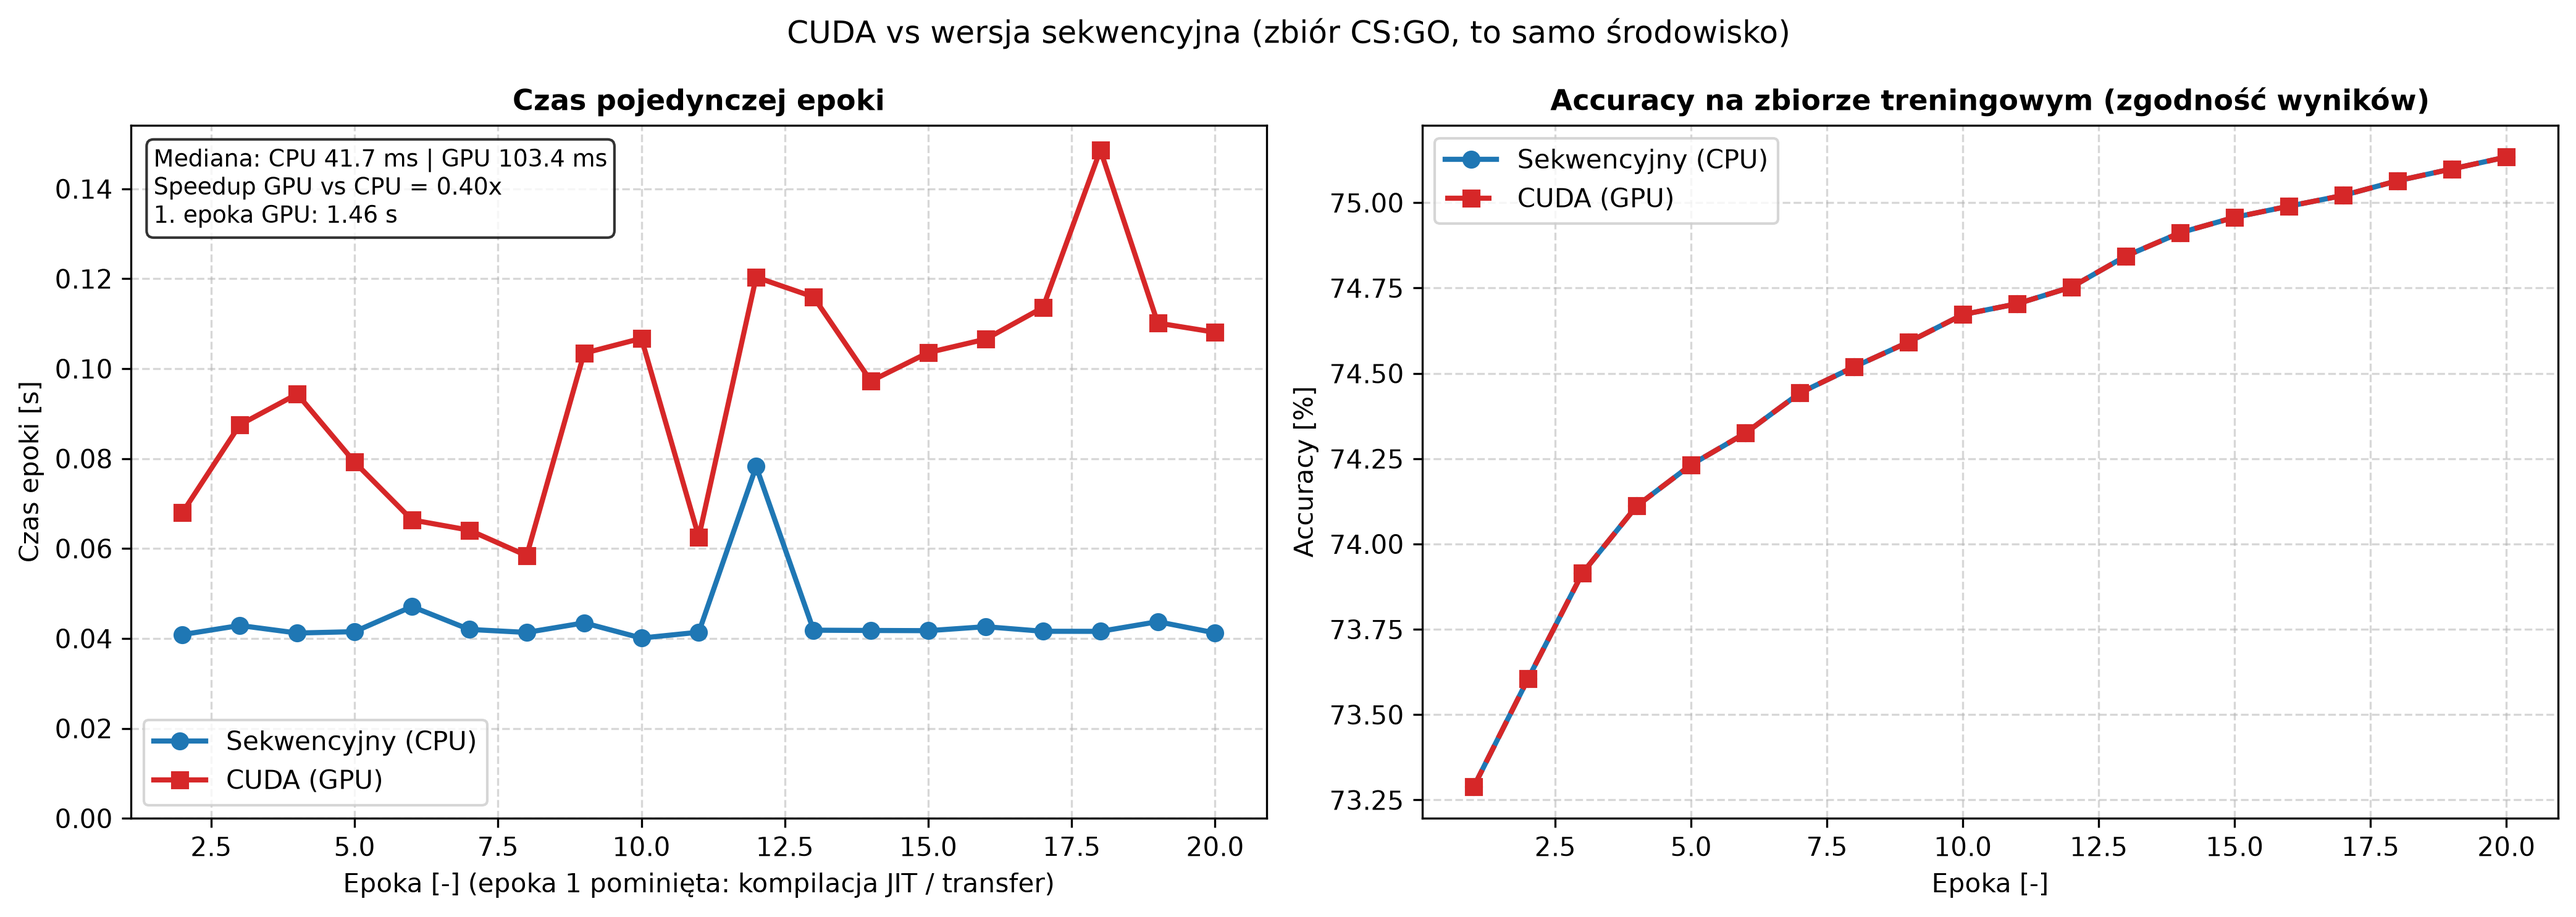
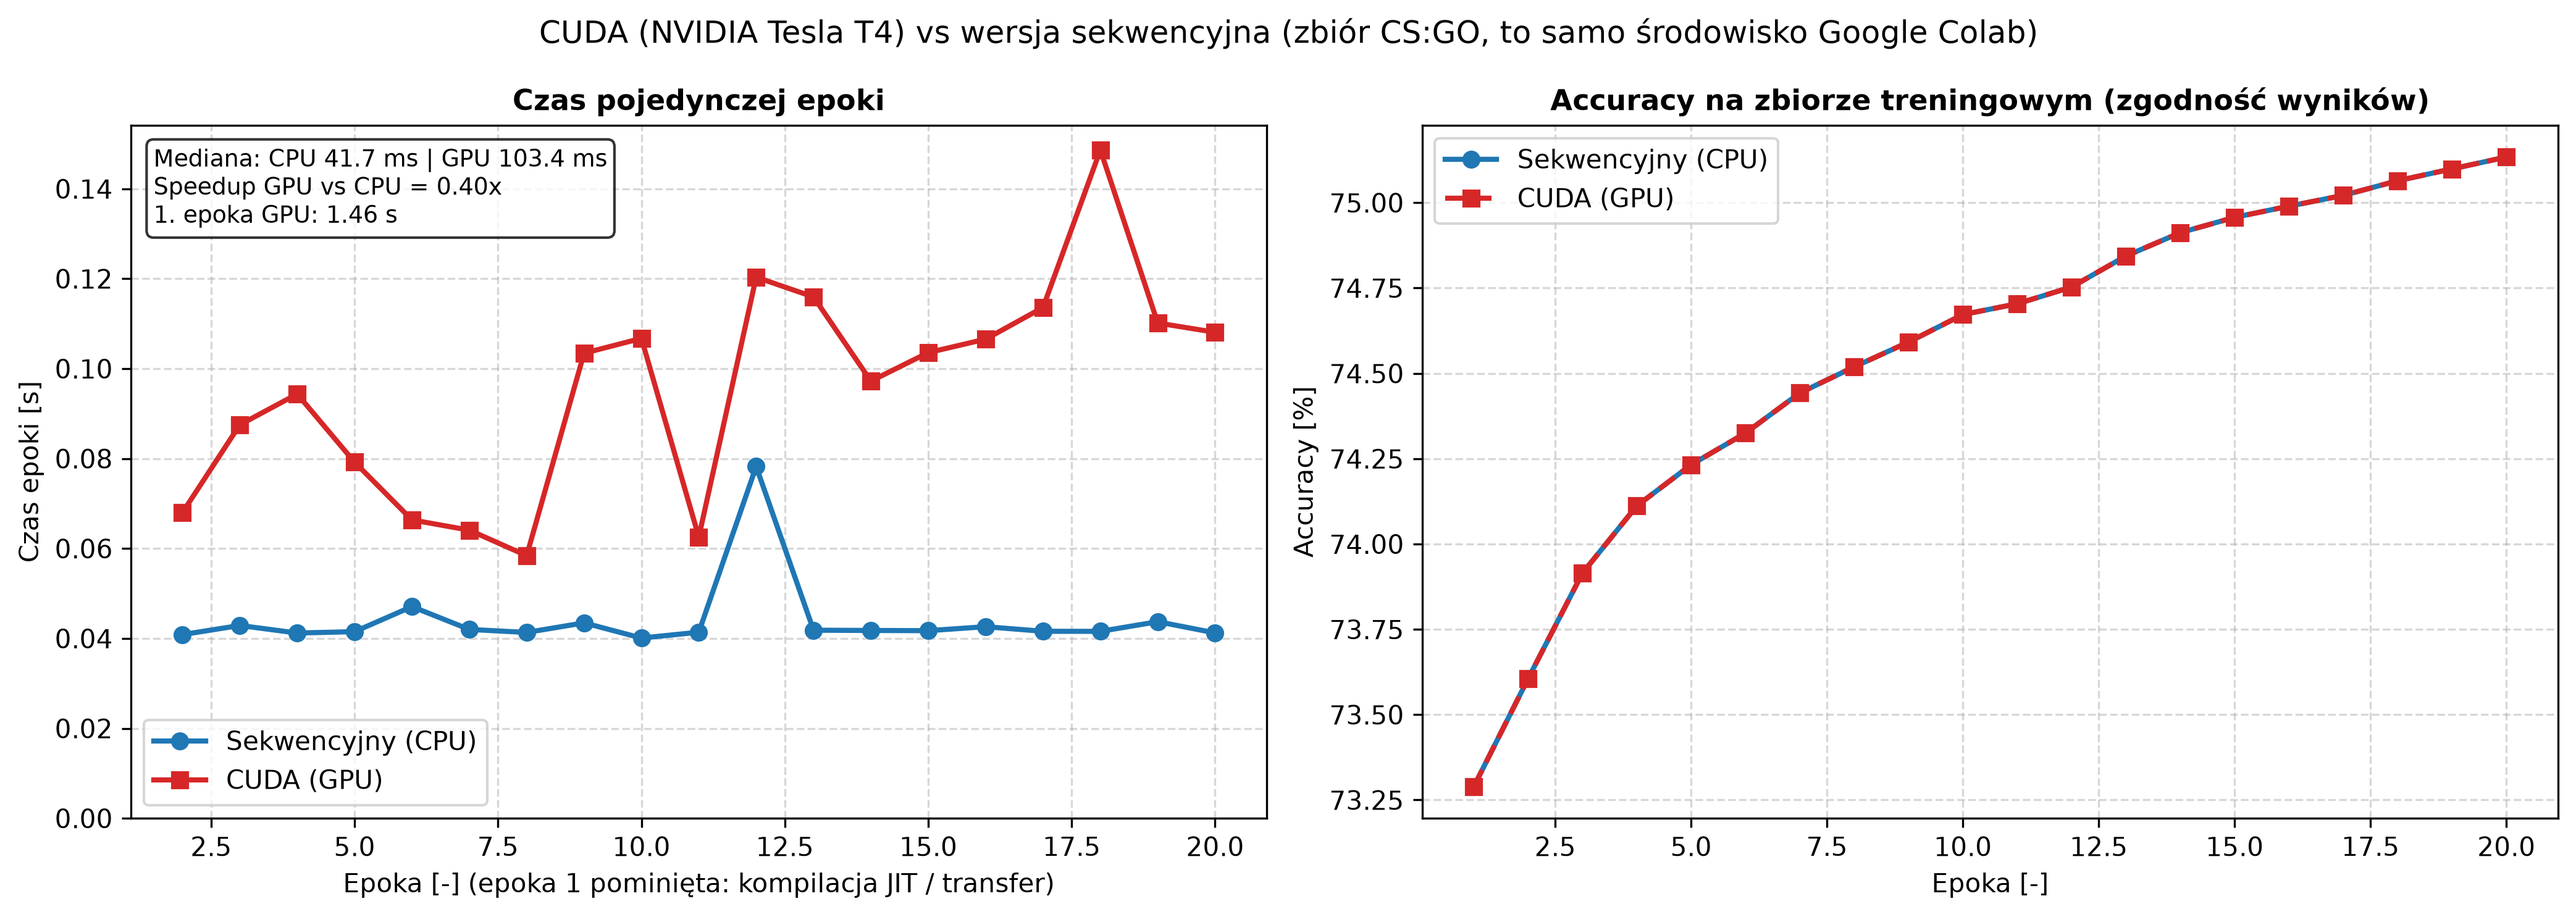
docs(results): record hardware/CUDA metadata in all reports and add environment table to README (#28)
Add collect_environment_metadata() (nvidia-smi GPU/driver/CUDA, CPU, Python/NumPy/Numba, timestamp) to src/main.py and scripts/run_benchmarks.py, preserve metadata in summarize_cuda_vs_seq and reports/cuda_results.json, document result-to-environment mapping in README.md, update all report JSON files, and add unit tests.

Changed region(s): [[0.2182, 0.0, 0.7792, 0.062]]

diff --git a/src/main.py b/src/main.py
@@ -1,6 +1,11 @@
 import argparse
 import json
+import os
 from pathlib import Path
+import platform
+import re
+import shutil
+import subprocess
 import sys
 import time
 from typing import Any
@@ -60,38 +65,106 @@ def load_model(filepath: Path | str) -> tuple[NDArray[Any], dict[str, Any] | Non
         return weights, None
 
 
+def collect_environment_metadata() -> dict[str, Any]:
+    """
+    Zbiera metadane srodowiska sprzetowego i wersji bibliotek (CPU, GPU z nvidia-smi,
+    wersje Python/NumPy/Numba/CUDA, data) na potrzeby raportow wynikowych JSON.
+    """
+    numba_version: str | None = None
+    try:
+        import numba
+        numba_version = str(numba.__version__)
+    except Exception:
+        pass
+
+    gpu_model: str | None = None
+    nvidia_driver: str | None = None
+    cuda_version: str | None = None
+
+    nvidia_smi = shutil.which("nvidia-smi")
+    if nvidia_smi:
+        try:
+            q = subprocess.run(
+                [nvidia_smi, "--query-gpu=name,driver_version", "--format=csv,noheader"],
+                capture_output=True,
+                text=True,
+                timeout=5,
+            )
+            if q.returncode == 0 and q.stdout.strip():
+                parts = [p.strip() for p in q.stdout.strip().splitlines()[0].split(",")]
+                if parts:
+                    gpu_model = parts[0]
+                if len(parts) > 1:
+                    nvidia_driver = parts[1]
+
+            full = subprocess.run([nvidia_smi], capture_output=True, text=True, timeout=5)
+            if full.returncode == 0:
+                m = re.search(r"CUDA Version:\s*([0-9.]+)", full.stdout)
+                if m:
+                    cuda_version = m.group(1)
+        except Exception:
+            pass
+
+    if gpu_model is None and os.environ.get("NUMBA_ENABLE_CUDASIM") != "1":
+        try:
+            from numba import cuda
+            if cuda.is_available():
+                dev = cuda.get_current_device()
+                gpu_model = dev.name.decode("utf-8", errors="replace") if isinstance(dev.name, bytes) else str(dev.name)
+                if cuda_version is None:
+                    major, minor = cuda.runtime.get_version()
+                    cuda_version = f"{major}.{minor}"
+        except Exception:
+            pass
+
+    return {
+        "timestamp": time.strftime("%Y-%m-%d %H:%M:%S"),
+        "system": f"{platform.system()} {platform.release()}",
+        "cpu": platform.processor() or platform.machine() or "unknown",
+        "cpu_count_logical": os.cpu_count() or 1,
+        "python_version": platform.python_version(),
+        "numpy_version": str(np.__version__),
+        "numba_version": numba_version,
+        "gpu_model": gpu_model,
+        "nvidia_driver": nvidia_driver,
+        "cuda_version": cuda_version,
+    }
+
+
 def _json_serializable(val: Any) -> Any:
-    """Konwerter typow NumPy i standardowych na formaty JSON."""
-    if val is None:
-        return None
+    """Konwerter typow NumPy i standardowych (rekurencyjnie) na formaty JSON."""
+    if val is None or isinstance(val, (str, bool, int, float)):
+        return val
     if isinstance(val, np.ndarray):
         return val.tolist()
-    if isinstance(val, (float, np.floating)):
-        return float(val)
-    if isinstance(val, (int, np.integer)):
-        return int(val)
-    if isinstance(val, (bool, np.bool_)):
+    if isinstance(val, np.bool_):
         return bool(val)
+    if isinstance(val, np.integer):
+        return int(val)
+    if isinstance(val, np.floating):
+        return float(val)
+    if isinstance(val, dict):
+        return {str(k): _json_serializable(v) for k, v in val.items()}
+    if isinstance(val, (list, tuple)):
+        return [_json_serializable(item) for item in val]
     return str(val)
 
 
 def save_history(filepath: Path | str, history: dict[str, Any]) -> Path:
     """
-    Zapisuje slownik z historia metryk (Loss, Accuracy, Epoch Times) do pliku JSON.
-    Automatycznie tworzy brakujace katalogi nadrzedne.
+    Zapisuje slownik z historia metryk (Loss, Accuracy, Epoch Times) oraz metadanymi
+    srodowiska sprzetowego do pliku JSON. Automatycznie tworzy brakujace katalogi.
     """
     path = Path(filepath)
     if path.suffix != ".json":
         path = path.with_suffix(".json")
     path.parent.mkdir(parents=True, exist_ok=True)
 
-    # Konwertujemy wszystkie wartosci NumPy na typy serializowalne w JSON
-    serializable_history: dict[str, Any] = {}
-    for k, v in history.items():
-        if isinstance(v, list):
-            serializable_history[k] = [_json_serializable(item) for item in v]
-        else:
-            serializable_history[k] = _json_serializable(v)
+    payload = dict(history)
+    if "metadata" not in payload:
+        payload["metadata"] = collect_environment_metadata()
+
+    serializable_history = _json_serializable(payload)
 
     with open(path, "w", encoding="utf-8") as f:
         json.dump(serializable_history, f, indent=2, ensure_ascii=False)

diff --git a/scripts/plot_results.py b/scripts/plot_results.py
@@ -308,12 +308,34 @@ def summarize_cuda_vs_seq(seq_hist: dict[str, Any], cuda_hist: dict[str, Any]) -
     Podsumowanie porownania CUDA vs sekwencyjny (oba uruchomione w tym samym srodowisku, np. Colab).
     Pierwsza epoka CUDA zawiera kompilacje JIT i transfer, wiec mediana liczona jest bez niej.
     Speedup = T_seq / T_cuda (wartosc < 1 oznacza, ze GPU jest wolniejsze).
+    Przenosi metadane sprzetowe (GPU, CPU, wersje Numba/CUDA, data) z plikow historii.
     """
     seq_t = [float(t) for t in seq_hist["epoch_times"]]
     cuda_t = [float(t) for t in cuda_hist["epoch_times"]]
     seq_med = float(np.median(seq_t[1:] if len(seq_t) > 1 else seq_t))
     cuda_med = float(np.median(cuda_t[1:] if len(cuda_t) > 1 else cuda_t))
+
+    raw_meta = cuda_hist.get("metadata") or seq_hist.get("metadata") or {}
+    metadata = {
+        "timestamp": raw_meta.get("timestamp") or raw_meta.get("date") or "unknown",
+        "environment": raw_meta.get("environment") or raw_meta.get("system") or "unknown",
+        "gpu_model": raw_meta.get("gpu_model"),
+        "nvidia_driver": raw_meta.get("nvidia_driver"),
+        "cuda_version": raw_meta.get("cuda_version"),
+        "cpu": raw_meta.get("cpu"),
+        "cpu_count_logical": raw_meta.get("cpu_count_logical"),
+        "python_version": raw_meta.get("python_version"),
+        "numpy_version": raw_meta.get("numpy_version"),
+        "numba_version": raw_meta.get("numba_version"),
+        "dataset": raw_meta.get("dataset"),
+        "note": raw_meta.get(
+            "note",
+            "Wyniki seq i cuda pochodza z tej samej maszyny (Colab) i nie sa bezposrednio porownywalne czasowo z pomiarami CPU z Apple Silicon.",
+        ),
+    }
+
     return {
+        "metadata": metadata,
         "epochs_seq": len(seq_t),
         "epochs_cuda": len(cuda_t),
         "seq_median_epoch_time": seq_med,
@@ -372,7 +394,8 @@ def plot_cuda_comparison(
     ax2.grid(True, linestyle="--", alpha=0.5)
     ax2.legend(fontsize=10)
 
-    plt.suptitle("CUDA vs wersja sekwencyjna (zbiór CS:GO, to samo środowisko)", fontsize=12)
+    gpu_name = summary.get("metadata", {}).get("gpu_model") or "GPU"
+    plt.suptitle(f"CUDA ({gpu_name}) vs wersja sekwencyjna (zbiór CS:GO, to samo środowisko Google Colab)", fontsize=12)
     plt.tight_layout()
     plt.savefig(output_path, bbox_inches="tight")
     plt.close()

diff --git a/scripts/run_benchmarks.py b/scripts/run_benchmarks.py
@@ -21,6 +21,7 @@ if str(SRC_DIR) not in sys.path:
 
 from numba import get_num_threads, set_num_threads
 from data_loader import add_intercept, prepare_dataset
+from main import collect_environment_metadata
 from sequential_sgd import compute_accuracy, generate_synthetic_dataset, predict_proba, train_sequential_sgd
 from numba_sgd import compute_gradient_numba, train_numba_sgd
 from model_mpi import split_batch_for_rank, train_local_sgd_mpi, MPI
@@ -59,12 +60,19 @@ def has_physical_cuda_gpu() -> tuple[bool, str | None]:
 
 def get_hardware_info() -> dict[str, Any]:
     """
-    Pobiera podstawowe informacje o srodowisku sprzetowym do legendy wykresow.
+    Pobiera pelne informacje o srodowisku sprzetowym (CPU, GPU z nvidia-smi,
+    wersje Python/NumPy/Numba/CUDA) do metadanych JSON i legendy wykresow.
     """
+    env = collect_environment_metadata()
     return {
         "processor": platform.processor() or "CPU x86_64",
-        "cpu_count_logical": os.cpu_count() or 1,
-        "python_version": platform.python_version(),
+        "cpu_count_logical": env["cpu_count_logical"],
+        "python_version": env["python_version"],
+        "numpy_version": env["numpy_version"],
+        "numba_version": env["numba_version"],
+        "gpu_model": env["gpu_model"],
+        "nvidia_driver": env["nvidia_driver"],
+        "cuda_version": env["cuda_version"],
         "system": platform.system(),
         "release": platform.release(),
     }
@@ -703,6 +711,8 @@ def benchmark_data_size_scaling(
         gc.collect()
 
     return {
+        "timestamp": time.strftime("%Y-%m-%d %H:%M:%S"),
+        "environment": get_hardware_info(),
         "sample_sizes": sample_sizes,
         "n_features": n_features + 1,
         "epochs": epochs,

diff --git a/tests/test_benchmarks.py b/tests/test_benchmarks.py
@@ -18,6 +18,7 @@ from scripts.plot_results import (
     plot_batch_and_k_analysis,
     plot_execution_time_comparison,
     plot_data_size_scaling,
+    summarize_cuda_vs_seq,
 )
 
 
@@ -223,3 +224,28 @@ def test_sequential_baseline_and_speedup_vs_seq(tmp_path: Path):
     plot_execution_time_comparison(report, output_path=out_time)
     assert out_se.is_file() and out_se.stat().st_size > 1000
     assert out_time.is_file() and out_time.stat().st_size > 1000
+
+
+def test_cuda_summary_preserves_environment_metadata():
+    """
+    Sprawdza, czy summarize_cuda_vs_seq przenosi metadane sprzetowe (GPU, CPU,
+    wersje Numba/CUDA, data) z plikow historii do podsumowania cuda_results.json.
+    """
+    meta = {
+        "timestamp": "2026-11-04 14:27:00",
+        "environment": "Google Colab (NVIDIA T4 GPU runtime)",
+        "gpu_model": "NVIDIA Tesla T4",
+        "cuda_version": "12.4",
+        "cpu": "Intel Xeon",
+        "numba_version": "0.60.0",
+    }
+    seq_hist = {"epoch_times": [0.04, 0.042, 0.041], "accuracy": [0.73, 0.74, 0.75], "loss": [0.55, 0.50, 0.48], "metadata": meta}
+    cuda_hist = {"epoch_times": [1.40, 0.10, 0.105], "accuracy": [0.73, 0.74, 0.75], "loss": [0.55, 0.50, 0.48], "metadata": meta}
+
+    summary = summarize_cuda_vs_seq(seq_hist, cuda_hist)
+    assert "metadata" in summary
+    assert summary["metadata"]["gpu_model"] == "NVIDIA Tesla T4"
+    assert summary["metadata"]["cuda_version"] == "12.4"
+    assert summary["metadata"]["cpu"] == "Intel Xeon"
+    assert summary["metadata"]["numba_version"] == "0.60.0"
+    assert summary["metadata"]["timestamp"] == "2026-11-04 14:27:00"

diff --git a/tests/test_cli.py b/tests/test_cli.py
@@ -98,6 +98,9 @@ def test_save_and_load_history_json(tmp_path: Path):
     assert loaded_h["accuracy"] == history["accuracy"]
     assert loaded_h["epoch_to_target_accuracy"] == 2
     assert np.isclose(loaded_h["time_to_target_accuracy"], 0.023)
+    assert isinstance(loaded_h["metadata"], dict)
+    for key in ("timestamp", "cpu", "python_version", "numba_version", "gpu_model", "cuda_version"):
+        assert key in loaded_h["metadata"]
 
 
 def test_calculate_time_to_quality():

diff --git a/README.md b/README.md
@@ -59,13 +59,18 @@ Głównym celem badawczym jest **ocena przyspieszenia $S(p)$ i efektywności $E(
 │   └── verify_real_data.py       # Szybka weryfikacja poprawności wczytywania zbioru CS:GO
 ├── notebooks/                    # Notatniki demonstracyjne dla chmury
 │   └── cuda_colab.ipynb          # Notatnik Google Colab z akceleratorem Nvidia Tesla T4
-├── reports/                      # Zapisane raporty z eksperymentów
-│   └── benchmark_results.json    # Surowe dane pomiarowe, czasy i przyspieszenia w formacie JSON
+├── reports/                      # Zapisane raporty z eksperymentów (każdy zawiera metadane sprzętu)
+│   ├── benchmark_results.json    # Wyniki skalowania CPU (Mac), Batch-K oraz skalowania rozmiaru danych (Colab T4)
+│   ├── cuda_results.json         # Podsumowanie porównania CUDA vs Sequential na CS:GO (Colab T4)
+│   ├── colab_cuda_history.json   # Surowa historia epok dla wariantu CUDA z sesji Google Colab
+│   └── colab_seq_history.json    # Surowa historia epok dla wariantu Sequential z tej samej sesji Google Colab
 ├── figures/                      # Wygenerowane wykresy naukowe
-│   ├── speedup_efficiency.png    # Przyspieszenie S(p) i efektywność E(p) vs Prawo Amdahla
-│   ├── scaling_comparison.png    # Porównanie czasów epok w funkcji liczby rdzeni/procesów
-│   └── batch_k_analysis.png      # Czas do jakości 74% Accuracy w funkcji Batch Size i parametru K
-├── tests/                        # Zestaw 33 testów jednostkowych i integracyjnych
+│   ├── speedup_efficiency.png    # Przyspieszenie S(p) i efektywność E(p) (vs T_seq i vs T₁) oraz Prawo Amdahla
+│   ├── scaling_comparison.png    # Porównanie czasów epok w funkcji liczby rdzeni/procesów vs baseline T_seq
+│   ├── batch_k_analysis.png      # Czas do jakości 74% Accuracy w funkcji Batch Size i parametru K
+│   ├── data_size_scaling.png     # Skalowanie względem rozmiaru danych (100k–5M próbek): Seq, Numba, MPI, CUDA
+│   └── cuda_comparison.png       # Porównanie czasów epok i zgodności Accuracy: CUDA vs Sequential (Colab T4)
+├── tests/                        # Zestaw 36 testów jednostkowych i integracyjnych
 │   ├── conftest.py               # Automatyczna izolacja symulatora CUDASIM na macOS/laptopach bez NVIDIA
 │   ├── test_cli.py               # Testy argumentów CLI, serializacji modeli .npy/.npz i historii JSON
 │   ├── test_cuda.py              # Testy poprawności kerneli CUDA i zbieżności SGD na GPU
@@ -275,18 +280,27 @@ $$\text{np.allclose}(grad\_analityczny, grad\_numeryczny, atol=1e-5) \implies \m
 
 ## Wyniki eksperymentów i wnioski
 
-Pomiary wykonano na wielordzeniowym procesorze Apple M5 Pro (15 rdzeni logicznych) oraz karcie Nvidia Tesla T4 (Google Colab).
+### Środowiska pomiarowe (tabela: wynik → środowisko)
 
-### 1. Przyspieszenie i efektywność (Prawo Amdahla)
-* Zgodnie z Prawem Amdahla:
-  $$S(p) = \frac{1}{(1 - f) + \frac{f}{p}}$$
-  estymowany ułamek równoległy kodu wynosi **$f \approx 87.5\%$**. 
-* Dla małych partii danych narzut synchronizacji wątków/procesów dominuje nad zyskiem z podziału obliczeń. Wzrost przyspieszenia jest najbardziej widoczny przy większych partiach ($B \ge 512$).
+> **Ważne zastrzeżenie metodologiczne:** Pomiary CPU (OpenMP/Numba, MPI, Batch–K) wykonano lokalnie na Apple Silicon, natomiast pomiary z akceleratorem GPU CUDA wykonano w Google Colab na karcie NVIDIA Tesla T4. **Bezwzględnych czasów wykonania z Apple M5 Pro i Google Colab nie należy bezpośrednio ze sobą porównywać** — w każdym środowisku warianty równoległe są odnoszone do baseline'u sekwencyjnego (`T_seq`) zmierzonego na **tej samej maszynie**.
 
-### 2. Kompromis w Local SGD (Parametr K)
-* Zwiększenie parametru rzadkiej synchronizacji $K$ ($K=4, 8, 16$) drastycznie redukuje liczbę wywołań operacji kolektywnych `Allreduce`, co w środowiskach rozproszonych o dużej latencji sieciowej przynosi znaczne oszczędności czasu.
-* Zbyt duża wartość $K$ prowadzi jednak do rozbiegania się lokalnych wag modeli (*client drift*), co wymaga większej liczby epok do osiągnięcia zadanego progu dokładności. Optymalną wartością kompromisową dla badanych danych okazało się **$K = 4$**.
+| Plik wyników / wykres | Zakres eksperymentu | Środowisko sprzętowe i programowe | Data pomiaru |
+|---|---|---|---|
+| `reports/benchmark_results.json` (`sequential_baseline`, `openmp_benchmark`, `mpi_benchmark`, `batch_k_sensitivity`)<br>`figures/speedup_efficiency.png`<br>`figures/scaling_comparison.png`<br>`figures/batch_k_analysis.png` | CS:GO (97 928 próbek × 104 cechy): baseline `T_seq`, skalowanie OpenMP/Numba (1–8T), MPI (`mpiexec`, 1–8P, $K=4$), analiza Batch–K do 74% Accuracy | **Apple M5 Pro** (`arm`, 15 rdzeni logicznych), macOS (Darwin 27.0.0), Python 3.13.13, NumPy 2.5.4, Numba 0.68.0, OpenMPI | 2026-11-25 |
+| `reports/benchmark_results.json` (`data_size_scaling`)<br>`figures/data_size_scaling.png` | Skalowanie rozmiaru danych syntetycznych (100k, 500k, 1M, 5M próbek × 101 cech, `batch=4096`): Sequential, Numba (8T), MPI (4P `mpiexec`), **CUDA** | **Google Colab** (Linux x86_64, Intel Xeon vCPU + **NVIDIA Tesla T4** 16 GB VRAM), Python 3.13, Numba CUDA, OpenMPI | 2026-11-12 |
+| `reports/cuda_results.json`<br>`reports/colab_cuda_history.json`<br>`reports/colab_seq_history.json`<br>`figures/cuda_comparison.png` | Porównanie 20 epok CUDA vs Sequential na zbiorze CS:GO (`batch=512`, `lr=0.003`): czas epoki oraz zgodność krzywych Accuracy i Loss | **Google Colab** (Linux x86_64, Intel Xeon vCPU + **NVIDIA Tesla T4** 16 GB VRAM), Python 3.13, Numba CUDA | 2026-11-04 |
 
-### 3. Akceleracja GPU CUDA
-* Przeniesienie obliczeń na GPU wykazuje swoją przewagę przy dużych partiach próbek ($B \ge 1024$). 
-* Utrzymanie danych rezydentnych w VRAM i przesyłanie jedynie tablicy indeksów pozwoliło ograniczyć czas transferów magistralą PCIe do ułamka milisekundy na epokę.
+Szczegółowe metadane sprzętowe (CPU, model GPU, wersje bibliotek oraz data) zapisywane są automatycznie w sekcji `"metadata"` / `"environment"` każdego pliku wynikowego JSON w `reports/`.
+
+### 1. Przyspieszenie i efektywność (CS:GO vs `T_seq` i Prawo Amdahla)
+* Na zbiorze CS:GO (~98 tys. próbek × 104 cechy, `batch=512`) bazowa wersja sekwencyjna NumPy wykonuje 3 epoki w **`T_seq = 0.0346 s`**.
+* Dla tak niewielkiego kosztu obliczeniowego na krok narzut uruchamiania wątków (`prange`) i komunikacji międzyprocesowej (`mpiexec`) przewyższa zysk ze zrównoleglenia: względem `T_seq` OpenMP/Numba osiąga `0.20x–0.24x`, a MPI `0.52x–0.90x`. Pokazuje to wprost ograniczenia Prawa Amdahla dla problemów o niskiej intensywności obliczeniowej.
+
+### 2. Kompromis w Local SGD (Parametr K i rozmiar partii)
+* Na CS:GO regresja logistyczna osiąga sufit ~75% Accuracy, dlatego w eksperymencie czułości zbadano czas do osiągnięcia **74% Accuracy** (`lr=0.003`).
+* Najkrótszy czas daje `batch=128, K=16` (~26.3 ms, 1 epoka); większe wartości $K$ redukują koszt uśredniania wag o kilka–kilkanaście procent przy zachowaniu praktycznie identycznej dokładności.
+
+### 3. Akceleracja GPU CUDA i skalowanie rozmiaru danych
+* Na małym zbiorze CS:GO (`batch=512`, `cuda_comparison.png`) GPU osiąga identyczną dokładność i stratę co CPU (`75.13%`, Loss `0.4839`), ale jest wolniejsze (`0.40x`) przez narzut uruchamiania małych kerneli.
+* W eksperymencie skalowania rozmiaru danych (`data_size_scaling.png`, `batch=4096`, Tesla T4) **próg opłacalności GPU wypada między 100k a 500k próbek**: przy 100k CUDA ma `0.96x`, natomiast od **500k do 5M próbek wyraźnie wygrywa z wersją sekwencyjną, osiągając `1.58x–1.69x` przyspieszenia**.
+* Utrzymanie danych rezydentnych w VRAM i przesyłanie jedynie tablicy indeksów `int32` eliminuje wąskie gardło magistrali PCIe w pętli epok.
